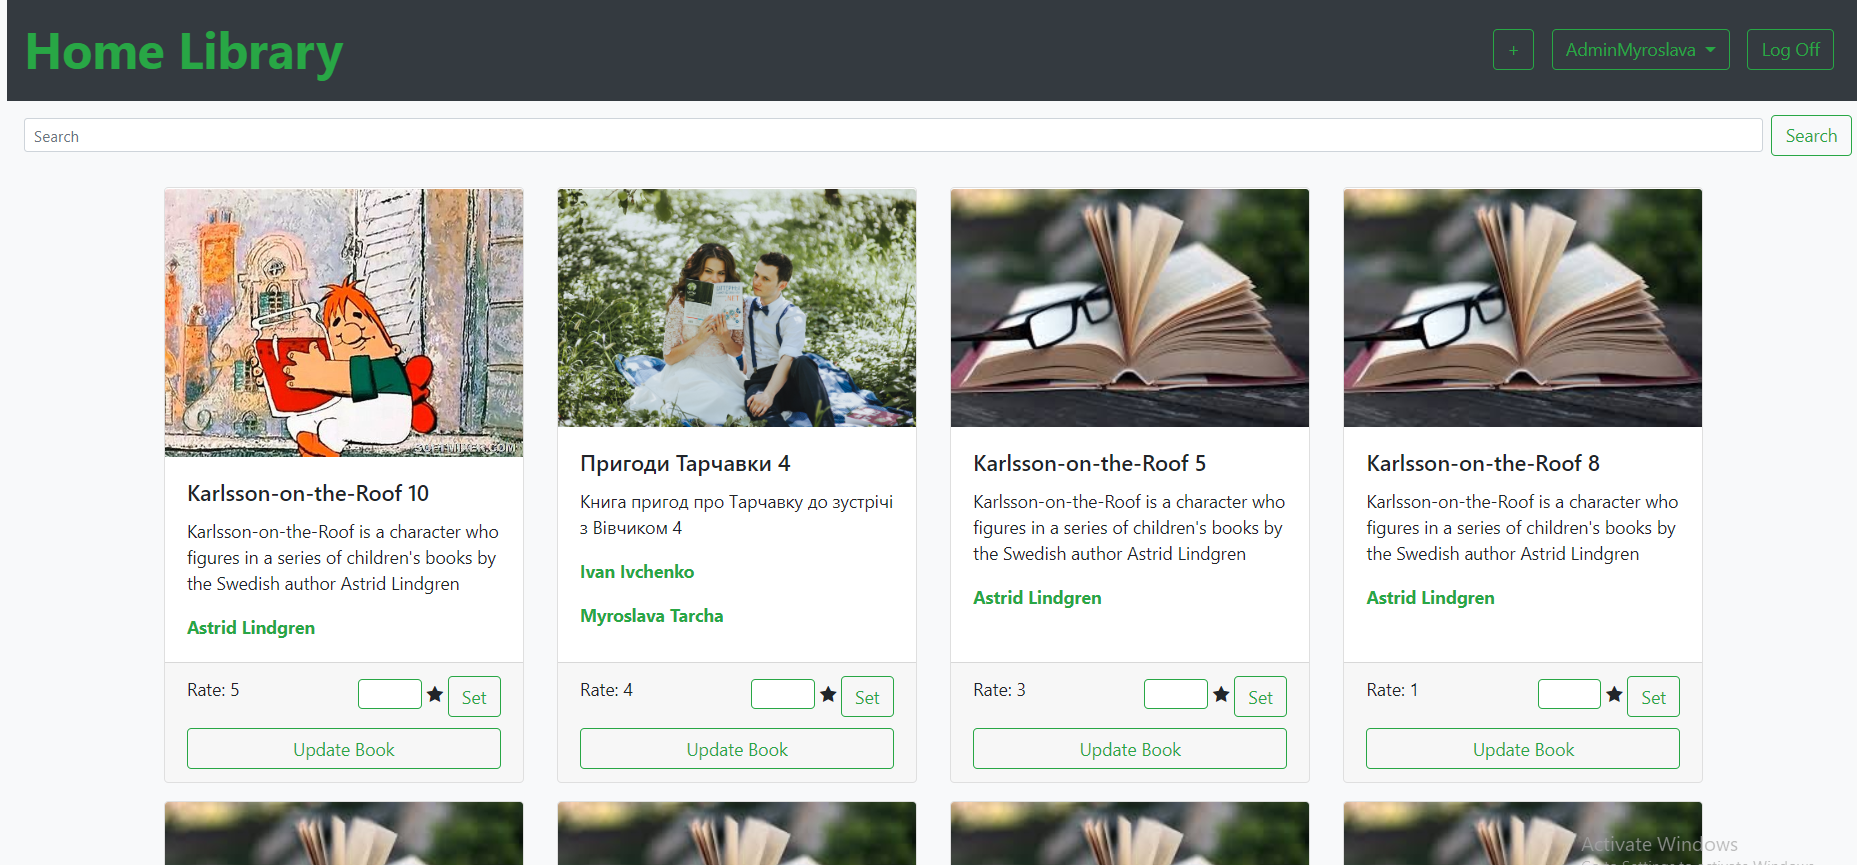
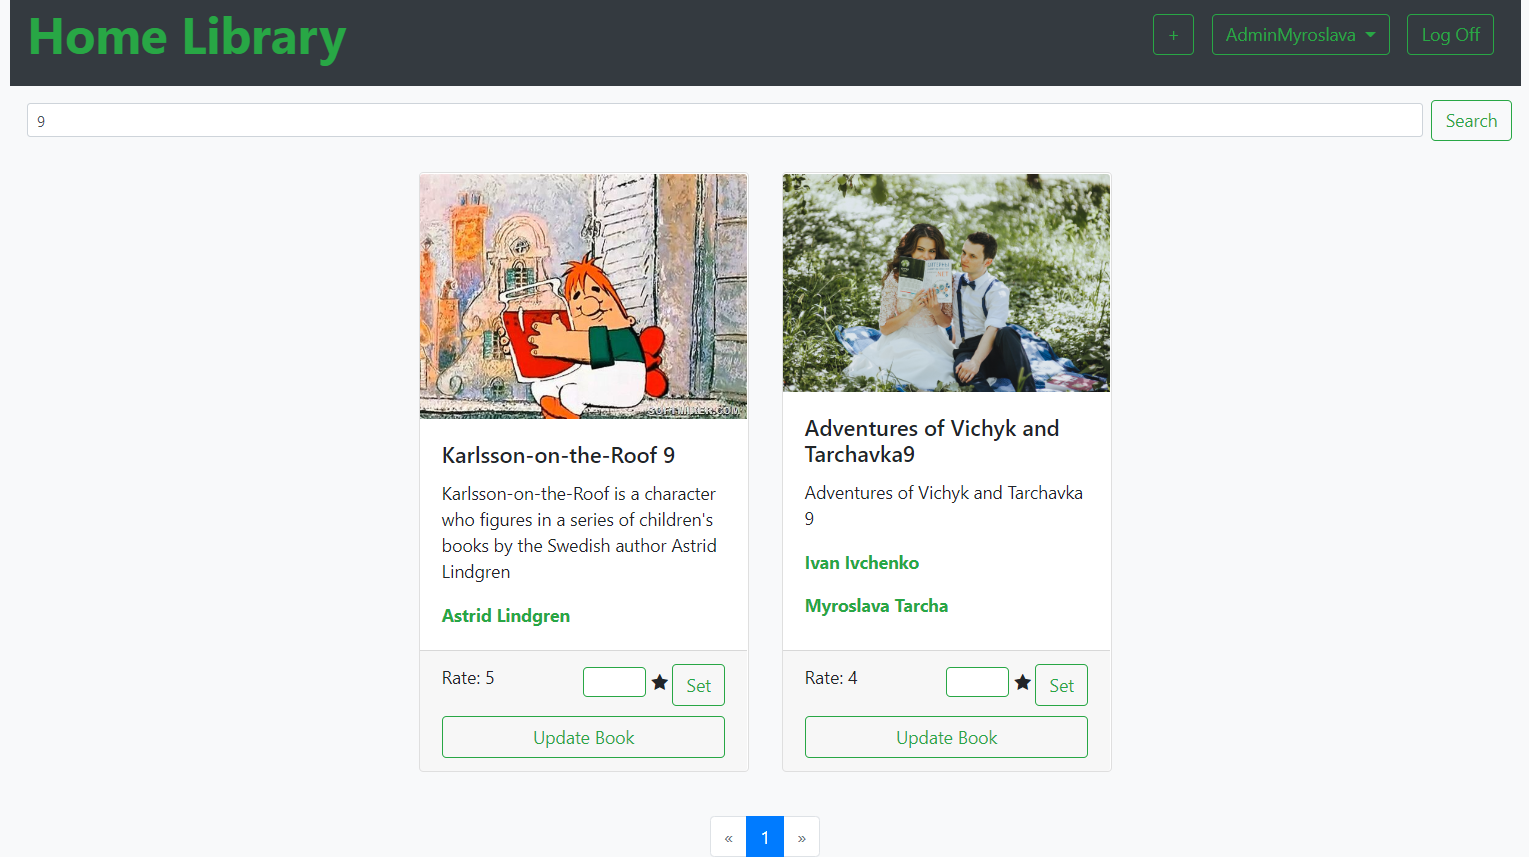
Cleanup

diff --git a/src/Library.Infrastructure.Data/DbInitializer.cs b/src/Library.Infrastructure.Data/DbInitializer.cs
@@ -1,9 +1,9 @@
 using System;
 using System.Linq;
 using Library.Domain;
-using Library.Infrastucture.Core;
+using Library.Infrastructure.Core;
 
-namespace Library.Infrastucture.Data
+namespace Library.Infrastructure.Data
 {
     public class DbInitializer : IStorageSeeder
     {
@@ -39,7 +39,7 @@ namespace Library.Infrastucture.Data
                         "Lindgren",
                         new LifePeriod(new DateTime(1907, 11, 14), new DateTime(2002, 1, 14)));
 
-                    for (var i = 1; i < 25; i++)
+                    for (var i = 1; i < 10; i++)
                     {
                         var book = _entityFactory.CreateBook(
                             "Karlsson-on-the-Roof " + i, 
@@ -49,17 +49,11 @@ namespace Library.Infrastucture.Data
                         book.AddAuthor(astrid);
                     }
 
-                    for (var i = 1; i < 5; i++)
+                    for (var i = 1; i < 15; i++)
                     {
-                        var book = _entityFactory.CreateBook("Пригоди Вівчика" + i, new DateTime(2016, 09, 08), "Книга пригод про Вівчика до зустрічі з Тарчавкою " + i);
+                        var book = _entityFactory.CreateBook("Adventures of Vichyk and Tarchavka" + i, new DateTime(2016, 09, 08), "Adventures of Vichyk and Tarchavka " + i);
                         book.AddAuthor(ivanko);
-                    }
-
-                    for (var i = 1; i < 5; i++)
-                    {
-                        var book = _entityFactory.CreateBook("Пригоди Тарчавки " + i, new DateTime(2016, 09, 08), "Книга пригод про Тарчавку до зустрічі з Вівчиком " + i);
                         book.AddAuthor(slavko);
-                        book.AddAuthor(ivanko);
                     }
 
                     unitOfWork.Authors.Create(ivanko);

diff --git a/src/Library.Presentation.MVC/Startup.cs b/src/Library.Presentation.MVC/Startup.cs
@@ -3,7 +3,7 @@ using Library.Business;
 using Library.Business.EventHandling;
 using Library.Domain;
 using Library.Domain.Common;
-using Library.Infrastucture.Data;
+using Library.Infrastructure.Data;
 using Library.Presentation.MVC.EventHandlers;
 using Library.Presentation.MVC.Utility;
 using MediatR;
@@ -13,7 +13,6 @@ using Microsoft.AspNetCore.Mvc;
 using Microsoft.Extensions.Configuration;
 using Microsoft.Extensions.DependencyInjection;
 using Newtonsoft.Json;
-using BookRateChangedEvent = Library.Domain.Events.BookRateChangedEvent;
 
 namespace Library.Presentation.MVC
 {
@@ -26,8 +25,6 @@ namespace Library.Presentation.MVC
             _configuration = configuration;
         }
 
-        // This method gets called by the runtime. Use this method to add services to the container.
-        // For more information on how to configure your application, visit https://go.microsoft.com/fwlink/?LinkID=398940
         public void ConfigureServices(IServiceCollection services)
         {
             var mappingConfig = new MapperConfiguration(mc =>
@@ -57,7 +54,6 @@ namespace Library.Presentation.MVC
                 .AddJsonOptions(x => x.SerializerSettings.ReferenceLoopHandling = ReferenceLoopHandling.Ignore);
         }
 
-        // This method gets called by the runtime. Use this method to configure the HTTP request pipeline.
         public void Configure(IApplicationBuilder app, IHostingEnvironment env)
         {
             if (env.IsDevelopment())
@@ -66,7 +62,6 @@ namespace Library.Presentation.MVC
             }
 
             app.UseStaticFiles();
-            app.UseNodeModules(env);
             app.UseAuthentication();
 
             app.UseSignalR(routes =>

diff --git a/src/Library.Infrastructure.Data/ServiceCollectionExtensions.cs b/src/Library.Infrastructure.Data/ServiceCollectionExtensions.cs
@@ -1,12 +1,12 @@
 using System;
 using Library.Domain;
-using Library.Infrastucture.Core;
-using Library.Infrastucture.Data.Entities;
+using Library.Infrastructure.Core;
+using Library.Infrastructure.Data.Entities;
 using Microsoft.AspNetCore.Identity;
 using Microsoft.EntityFrameworkCore;
 using Microsoft.Extensions.DependencyInjection;
 
-namespace Library.Infrastucture.Data
+namespace Library.Infrastructure.Data
 {
     public static class ServiceCollectionExtensions
     {

diff --git a/src/Library.Presentation.MVC/Program.cs b/src/Library.Presentation.MVC/Program.cs
@@ -1,13 +1,10 @@
-using Library.Infrastucture.Core;
+using Library.Infrastructure.Core;
 using Microsoft.AspNetCore;
 using Microsoft.AspNetCore.Hosting;
-using Microsoft.Extensions.Configuration;
 using Microsoft.Extensions.DependencyInjection;
 
 namespace Library.Presentation.MVC
 {
-    // todo: iivc use docker
-    // todo: iivc replace local db with ms sql server in container
     public class Program
     {
         public static void Main(string[] args)

diff --git a/src/Library.Infrastructure.Data/AuthorsRepository.cs b/src/Library.Infrastructure.Data/AuthorsRepository.cs
@@ -2,11 +2,11 @@
 using System.Collections.Generic;
 using System.Linq;
 using Library.Domain;
-using Library.Infrastucture.Data.Entities;
-using Library.Infrastucture.Data.Internal;
+using Library.Infrastructure.Data.Entities;
+using Library.Infrastructure.Data.Internal;
 using Microsoft.EntityFrameworkCore;
 
-namespace Library.Infrastucture.Data
+namespace Library.Infrastructure.Data
 {
     public sealed class AuthorsRepository : IAuthorsRepository
     {

diff --git a/src/Library.Infrastructure.Data/BooksRepository.cs b/src/Library.Infrastructure.Data/BooksRepository.cs
@@ -2,11 +2,11 @@
 using System.Collections.Generic;
 using System.Linq;
 using Library.Domain;
-using Library.Infrastucture.Data.Entities;
-using Library.Infrastucture.Data.Internal;
+using Library.Infrastructure.Data.Entities;
+using Library.Infrastructure.Data.Internal;
 using Microsoft.EntityFrameworkCore;
 
-namespace Library.Infrastucture.Data
+namespace Library.Infrastructure.Data
 {
     public sealed class BooksRepository : IBooksRepository
     {

diff --git a/src/Library.Infrastructure.Data/UsersRepository.cs b/src/Library.Infrastructure.Data/UsersRepository.cs
@@ -2,11 +2,11 @@
 using System.Collections.Generic;
 using System.Linq;
 using Library.Domain;
-using Library.Infrastucture.Data.Entities;
-using Library.Infrastucture.Data.Internal;
+using Library.Infrastructure.Data.Entities;
+using Library.Infrastructure.Data.Internal;
 using Microsoft.AspNetCore.Identity;
 
-namespace Library.Infrastucture.Data
+namespace Library.Infrastructure.Data
 {
     public class UsersRepository : IUsersRepository
     {

diff --git a/src/Library.Infrastructure.Data/LibraryContext.cs b/src/Library.Infrastructure.Data/LibraryContext.cs
@@ -1,10 +1,10 @@
 using System;
-using Library.Infrastucture.Data.Entities;
+using Library.Infrastructure.Data.Entities;
 using Microsoft.AspNetCore.Identity;
 using Microsoft.AspNetCore.Identity.EntityFrameworkCore;
 using Microsoft.EntityFrameworkCore;
 
-namespace Library.Infrastucture.Data
+namespace Library.Infrastructure.Data
 {
     public sealed class LibraryContext : IdentityDbContext<UserEntity, IdentityRole<Guid>, Guid>
     {

diff --git a/src/Library.Infrastructure.Data/UnitOfWorkFactory.cs b/src/Library.Infrastructure.Data/UnitOfWorkFactory.cs
@@ -1,11 +1,10 @@
 using System;
 using Library.Domain;
 using Library.Domain.Common;
-using Library.Domain.Events;
-using Library.Infrastucture.Data.Entities;
+using Library.Infrastructure.Data.Entities;
 using Microsoft.AspNetCore.Identity;
 
-namespace Library.Infrastucture.Data
+namespace Library.Infrastructure.Data
 {
     public class UnitOfWorkFactory : IUnitOfWorkFactory
     {

diff --git a/src/Library.Infrastructure.Data/UnitOfWork.cs b/src/Library.Infrastructure.Data/UnitOfWork.cs
@@ -1,11 +1,10 @@
 using System;
 using Library.Domain;
 using Library.Domain.Common;
-using Library.Domain.Events;
-using Library.Infrastucture.Data.Entities;
+using Library.Infrastructure.Data.Entities;
 using Microsoft.AspNetCore.Identity;
 
-namespace Library.Infrastucture.Data
+namespace Library.Infrastructure.Data
 {
     public class UnitOfWork : IUnitOfWork
     {

diff --git a/src/Library.Presentation.MVC/Controllers/BooksController.cs b/src/Library.Presentation.MVC/Controllers/BooksController.cs
@@ -1,12 +1,10 @@
 using System;
 using System.Collections.Generic;
-using System.IO;
 using AutoMapper;
 using Library.Business;
 using Library.Domain;
 using Library.Presentation.MVC.ViewModels;
 using Microsoft.AspNetCore.Authorization;
-using Microsoft.AspNetCore.Http;
 using Microsoft.AspNetCore.Mvc;
 using Book = Library.Business.DTO.Book;
 

diff --git a/src/Library.Infrastructure.Data/Internal/MappingExtensions.cs b/src/Library.Infrastructure.Data/Internal/MappingExtensions.cs
@@ -1,9 +1,9 @@
 using System.Collections.Generic;
 using System.Linq;
 using Library.Domain;
-using Library.Infrastucture.Data.Entities;
+using Library.Infrastructure.Data.Entities;
 
-namespace Library.Infrastucture.Data.Internal
+namespace Library.Infrastructure.Data.Internal
 {
     internal static class MappingExtensions
     {
